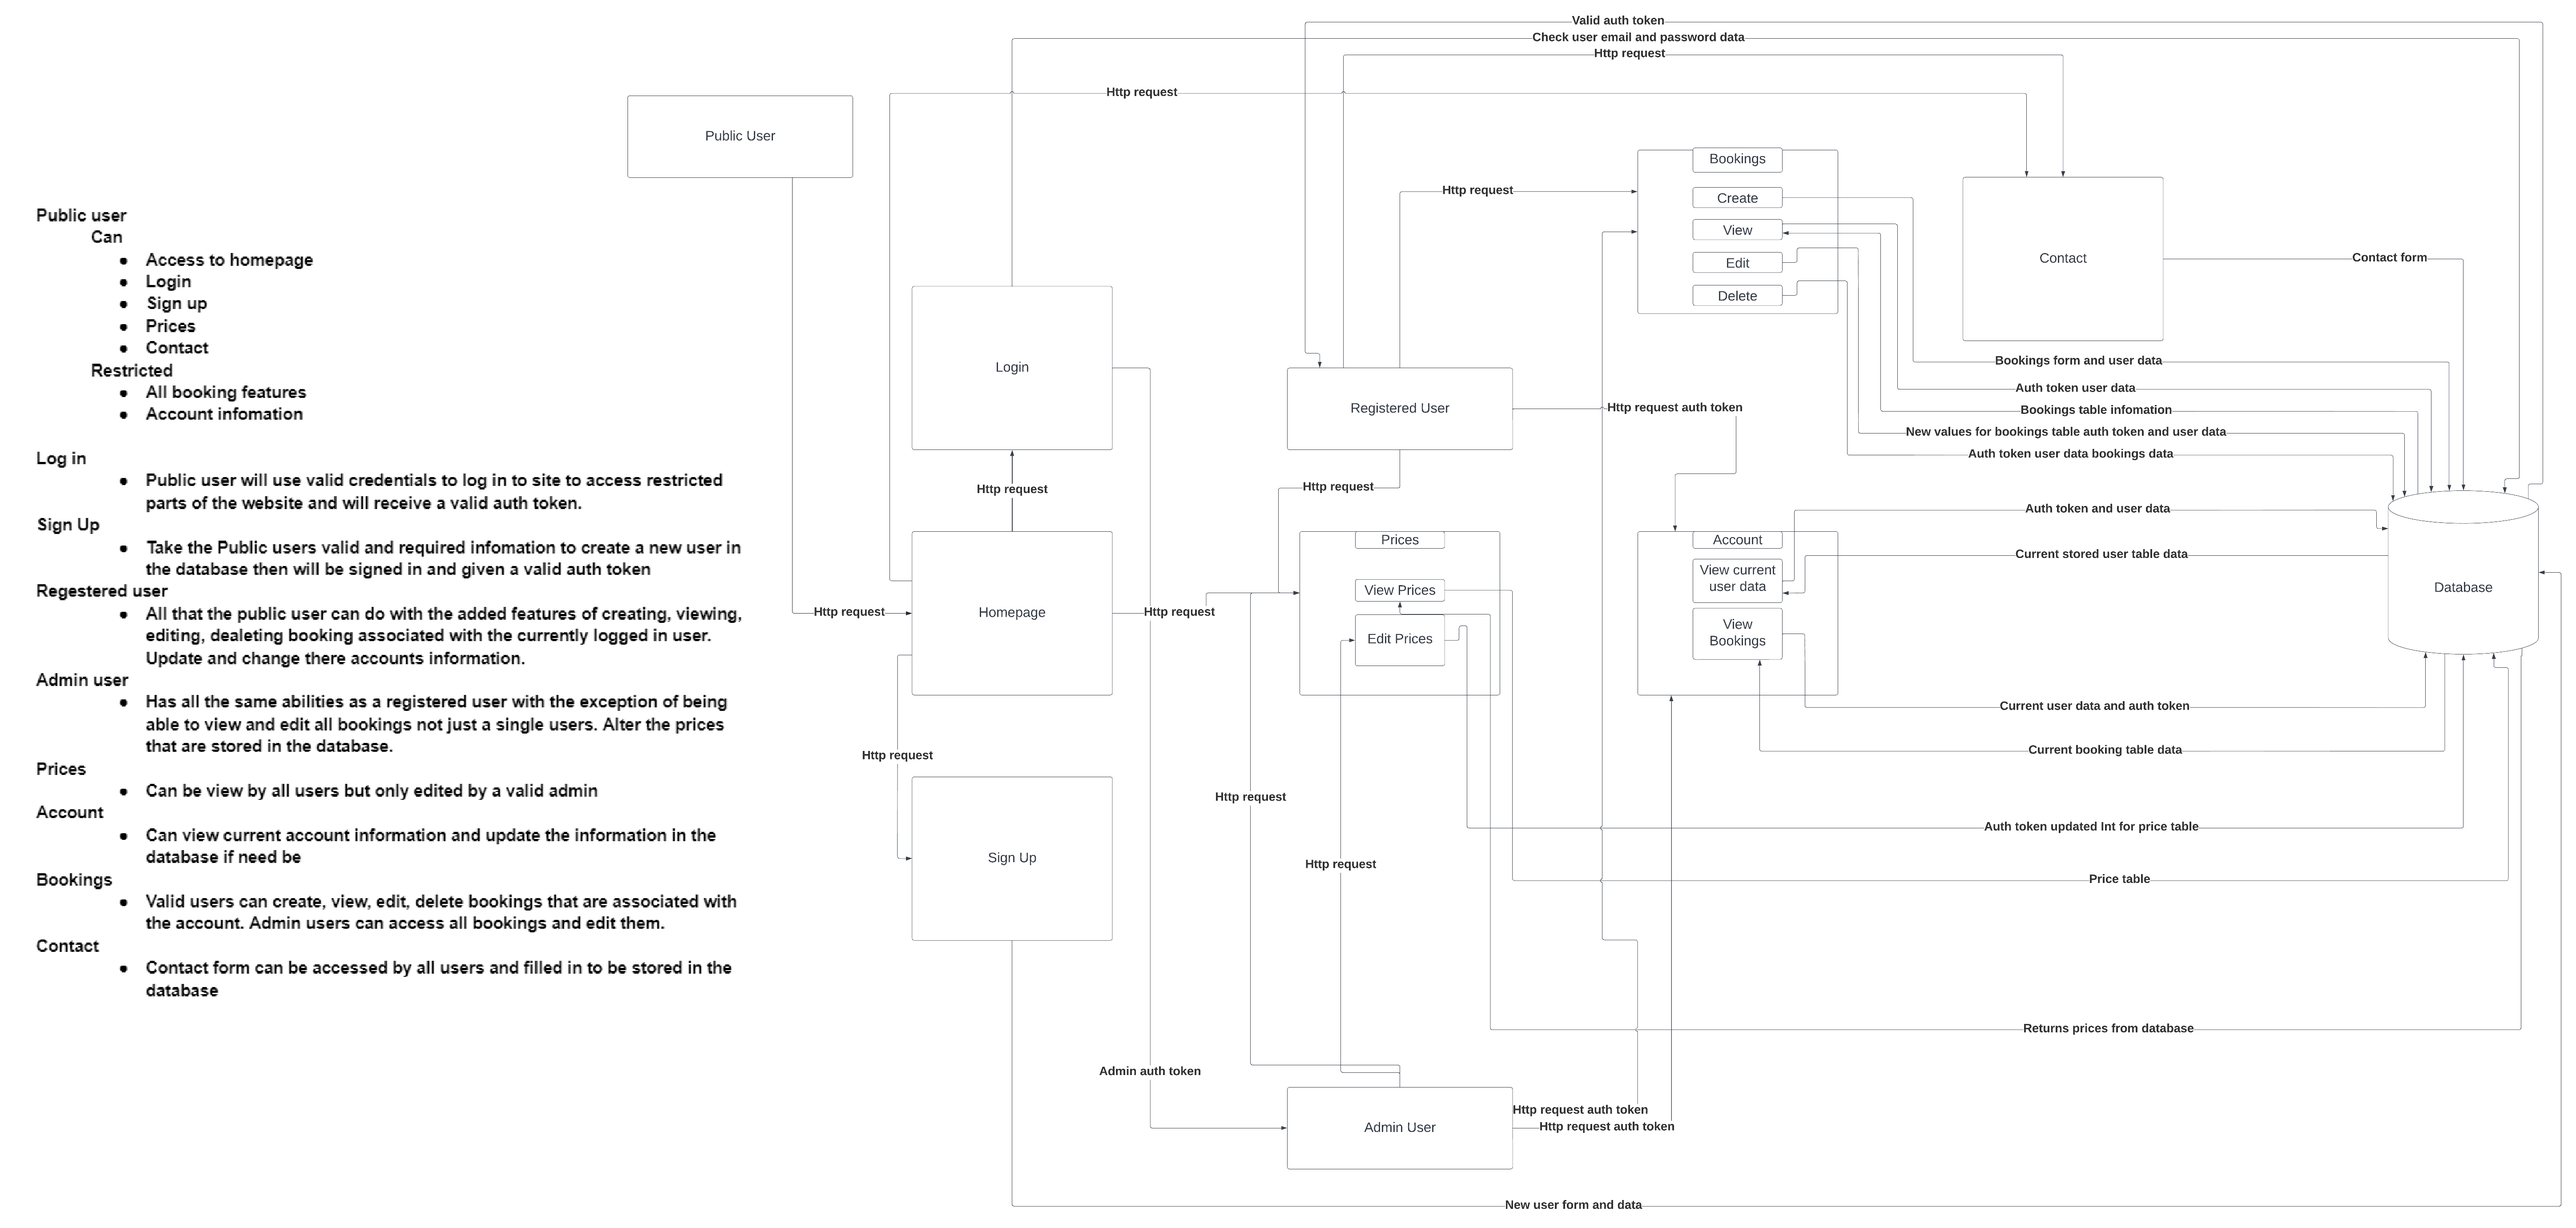
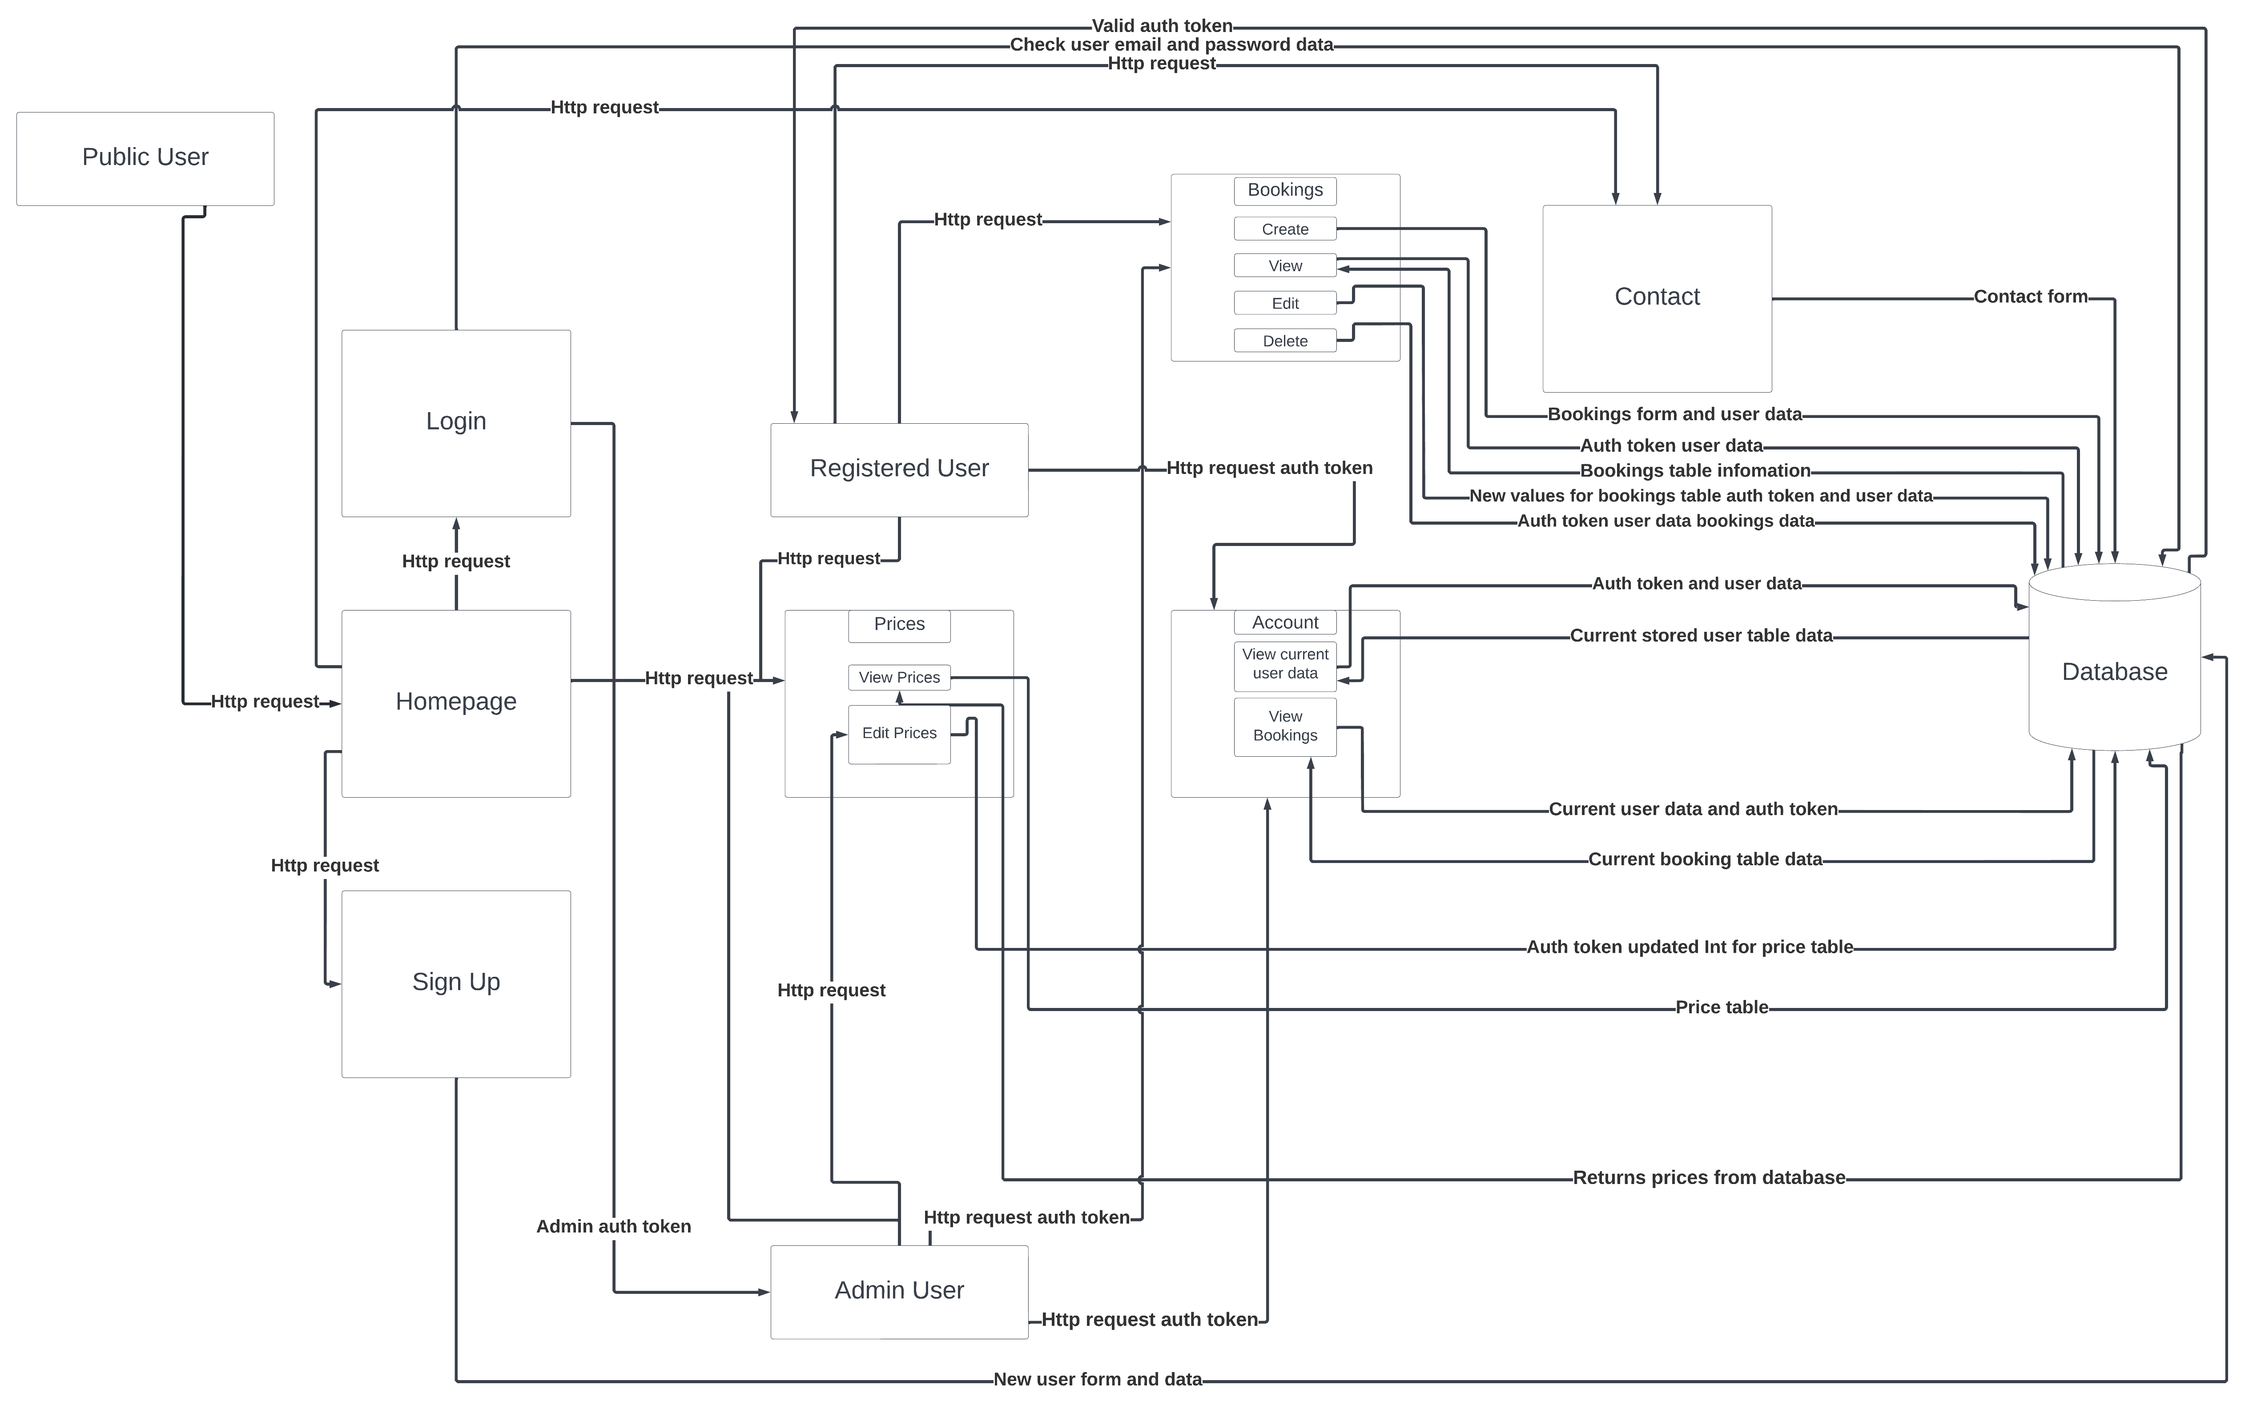
updated changes layout and fixed some spelling issues

diff --git a/README.md b/README.md
@@ -61,6 +61,58 @@ Our target audience comprises Mia and all of Mia's present and prospective music
 ## Dataflow diagram
 
 ![Data Diagram](/docs/diagrams/Data_Flow.png "architecture diagram")
+### **notes**
+Public user
+
+**Can**
+
+- Access to homepage
+
+- Login
+
+- Sign up
+
+- Prices
+
+- Contact
+
+**Restricted**
+
+- All booking features
+
+- Account information
+
+**Log in**
+
+- Public users will use valid credentials to log in to the site to access restricted parts of the website and receive a valid auth token.
+
+**Sign Up**
+
+- Take the Public user's valid and required information to create a new user in the database, then will be signed in and given a valid auth token.
+
+**Registered user**
+
+- All that the public user can do with the added features of creating, viewing, editing, and deleting bookings associated with the currently logged-in user. Update and change their account information.
+
+**Admin user**
+
+- Has all the same abilities as a registered user except for viewing and editing all bookings, not just a single user. Alter the prices that are stored in the database.
+
+**Prices**
+
+- It can be viewed by all users but only edited by a valid admin
+
+**Account**
+
+- Can view current account information and update the information in the database if need be
+
+**Bookings**
+
+- Valid users can create, view, edit, and delete bookings associated with the account. Admin users can access all bookings and edit them.
+
+**Contact**
+
+- The contact form can be accessed by all users and filled in to be stored in the database
 
 ## Application architecture diagram
 
